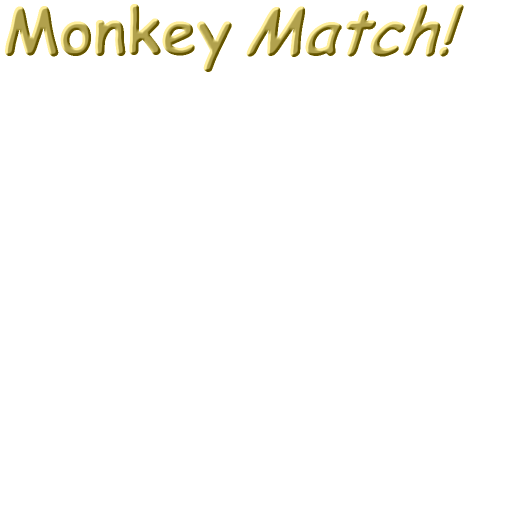
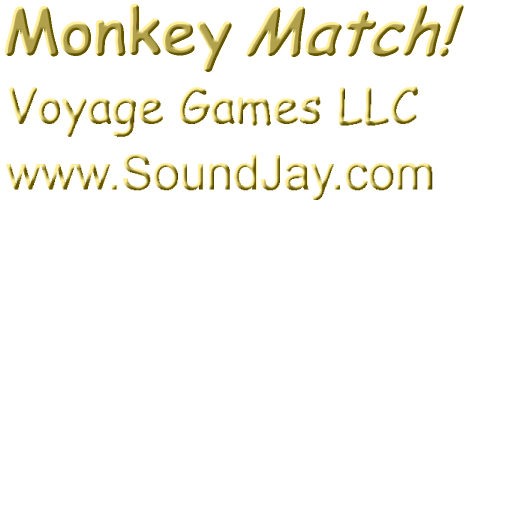
Added Voyage Games LLC to options screen.

diff --git a/core/src/com/voyagegames/monkeymatch/screens/OptionsScreen.java b/core/src/com/voyagegames/monkeymatch/screens/OptionsScreen.java
@@ -19,6 +19,7 @@ public class OptionsScreen implements Screen, InputProcessor {
 
 	private static final float SCALE_SIZE = 1.2f;
 	private static final float LOGO_SCALE = 0.75f;
+	private static final float BORDER_WIDTH = 10f;
 	private static final float TIME_0 = 0f;
 	private static final float TIME_1 = 0.25f;
 	private static final float TIME_3 = 0.75f;
@@ -108,10 +109,35 @@ public class OptionsScreen implements Screen, InputProcessor {
         		(width - (title.getWidth() * scale)) / 2f,
         		(height - (title.getHeight() * scale)));
         setupActor(title, TIME_0, TIME_1, scale);
-        
+
+        final float logoScale = scale * LOGO_SCALE;
         final Actor logoActor = new Image(mTextures.logo.region);
         logoActor.setPosition(0f, 0f);
-        setupActor(logoActor, TIME_0, TIME_1, scale * LOGO_SCALE);
+        setupActor(logoActor, TIME_0, TIME_1, logoScale);
+        
+        final Actor monkeyActor = new Image(mTextures.start.region);
+        monkeyActor.setPosition(
+        		gridBorder.getX() + BORDER_WIDTH,
+        		gridBorder.getY() - BORDER_WIDTH + gridBorder.getHeight() - (monkeyActor.getHeight() * logoScale));
+        setupActor(monkeyActor, TIME_0, TIME_1, logoScale);
+        
+        final Actor voyageGamesActor = new Image(mTextures.voyageGames.region);
+        voyageGamesActor.setPosition(
+        		monkeyActor.getX() + (monkeyActor.getWidth() * logoScale),
+        		monkeyActor.getY() + (voyageGamesActor.getHeight() * logoScale / 4f));
+        setupActor(voyageGamesActor, TIME_0, TIME_1, logoScale);
+        
+        final Actor musicActor = new Image(mTextures.music.region);
+        musicActor.setPosition(
+        		gridBorder.getX() + BORDER_WIDTH,
+        		monkeyActor.getY() - (musicActor.getHeight() * logoScale));
+        setupActor(musicActor, TIME_0, TIME_1, logoScale);
+        
+        final Actor soundJayActor = new Image(mTextures.soundJay.region);
+        soundJayActor.setPosition(
+        		musicActor.getX() + (musicActor.getWidth() * logoScale),
+        		musicActor.getY() + (soundJayActor.getHeight() * logoScale / 4f));
+        setupActor(soundJayActor, TIME_0, TIME_1, logoScale);
         
         mButtonActor = new Image(mTextures.start.region);
         mButtonActor.setPosition((width - mButtonActor.getWidth() * scale) / 2f, gridBorder.getY());

diff --git a/core/src/com/voyagegames/monkeymatch/helpers/TextureManager.java b/core/src/com/voyagegames/monkeymatch/helpers/TextureManager.java
@@ -18,6 +18,9 @@ public class TextureManager {
     public BundledTexture title;
     public BundledTexture logo;
     public BundledTexture options;
+    public BundledTexture music;
+    public BundledTexture voyageGames;
+    public BundledTexture soundJay;
     public BundledTexture gridBackground;
     
     public TextureManager(final int maxGrids, final int maxTokens) {
@@ -38,6 +41,9 @@ public class TextureManager {
         title = new BundledTexture("misc/title.png", 468, 75);
         logo = new BundledTexture("misc/logo.png", 128, 128);
         options = new BundledTexture("misc/gear.png", 128, 128);
+        music = new BundledTexture("misc/music.png", 128, 128);
+        voyageGames = new BundledTexture("misc/title.png", 435, 65, 0, 80);
+        soundJay = new BundledTexture("misc/title.png", 445, 65, 0, 145);
 
         digits[0] = new BundledTexture("misc/digits0.png", 96, 120);
         digits[1] = new BundledTexture("misc/digits1.png", 66, 120);
@@ -98,6 +104,9 @@ public class TextureManager {
 		title.texture.dispose();
 		logo.texture.dispose();
 		options.texture.dispose();
+		music.texture.dispose();
+		voyageGames.texture.dispose();
+		soundJay.texture.dispose();
 		
 		for (final BundledTexture t : digits) {
 			t.texture.dispose();

diff --git a/core/src/com/voyagegames/monkeymatch/helpers/BundledTexture.java b/core/src/com/voyagegames/monkeymatch/helpers/BundledTexture.java
@@ -15,6 +15,12 @@ public class BundledTexture {
 		this.region = new TextureRegion(texture, 0, 0, width, height);
 	}
 	
+	public BundledTexture(final String texturePath, final int width, final int height, final int offsetX, final int offsetY) {
+		this.texture = new Texture(texturePath);
+        this.texture.setFilter(TextureFilter.Linear, TextureFilter.Linear);
+		this.region = new TextureRegion(texture, offsetX, offsetY, width, height);
+	}
+	
 	public float getWidth() {
 		return region.getRegionWidth();
 	}
